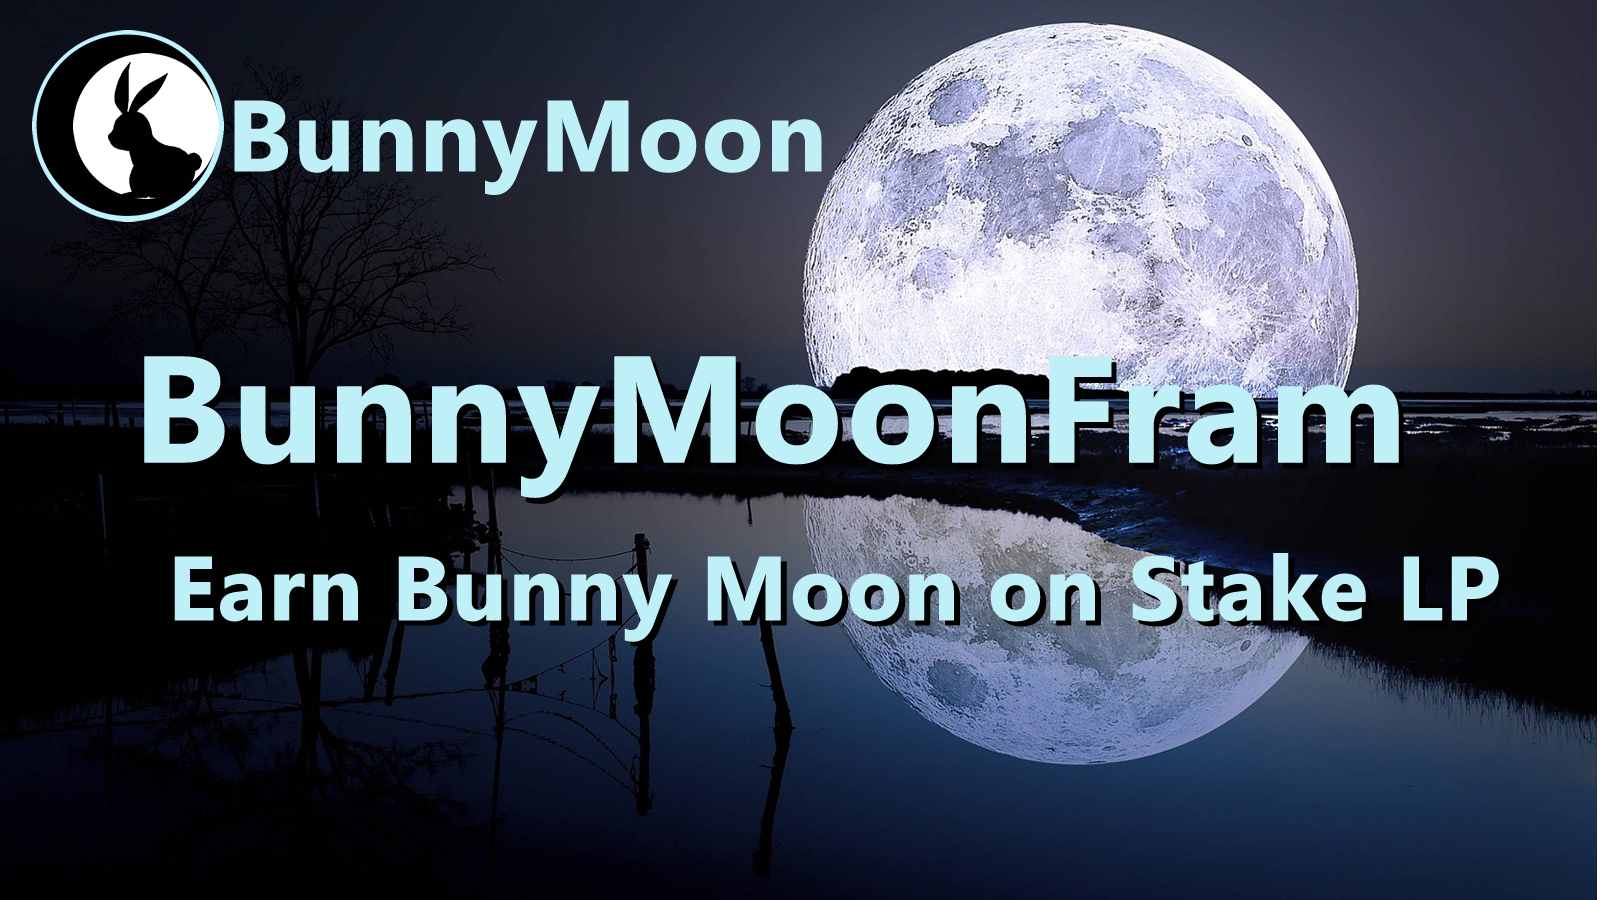
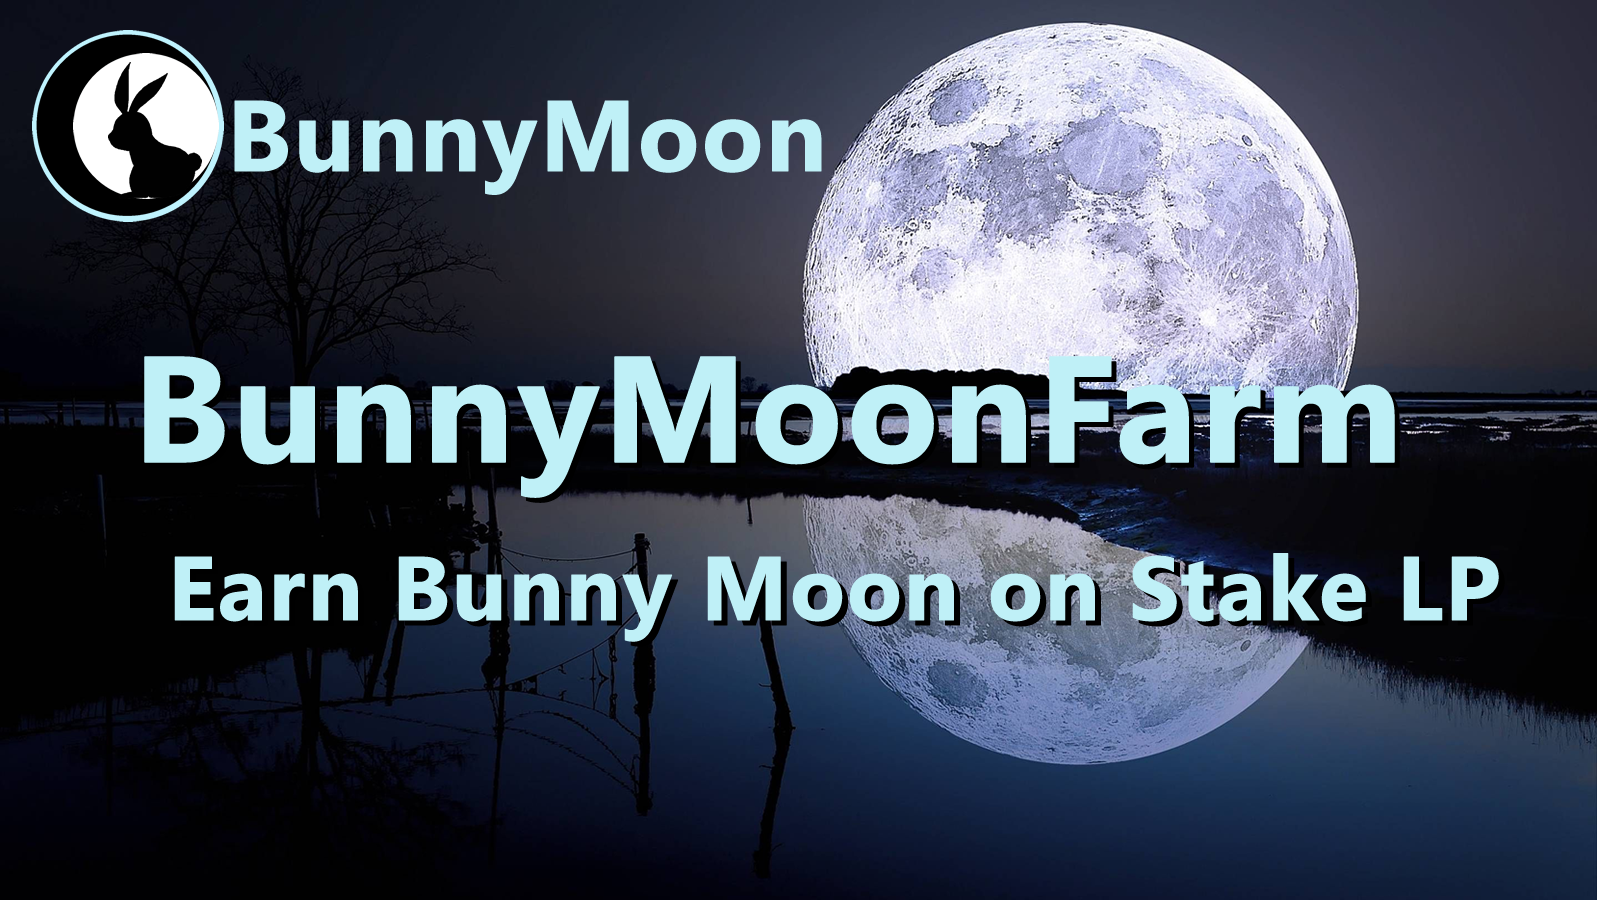
typo

Changed region(s): [[0.6875, 0.4356, 0.875, 0.5289]]

diff --git a/public/index.html b/public/index.html
@@ -15,14 +15,14 @@
     <title>BunnyMoonFarm</title>
     <meta
       name="description"
-      content="Cheaper and faster than Uniswap? Discover BunnyMoonFarm, the leading DEX on Binance Smart Chain (BSC) with the best farms in DeFi and a lottery for BUNNYMOON."
+      content="Discover BunnyMoonFarm, the leading DEX on Binance Smart Chain (BSC) with the best farms in DeFi and a lottery for BUNNYMOON."
     />
     <meta name="viewport" content="width=device-width, initial-scale=1, maximum-scale=5, minimum-scale=1" />
     <meta name="theme-color" content="#000000" />
     <meta name="twitter:image" content="https://bunnymoonfarm.web.app/images/hero.png" />
     <meta
       name="twitter:description"
-      content="The most popular AMM on BSC! Earn BUNNYMOON through yield farming or win it in the Lottery, then stake it in Pools to earn more tokens! Initial Farm Offerings (new token launch model pioneered by BunnyMoonFarm), NFTs, and more, on a platform you can trust."
+      content="Earn BUNNYMOON through yield farming or win it in the Lottery, then stake it in Pools to earn more tokens! Initial Farm Offerings (new token launch model pioneered by BunnyMoonFarm), NFTs, and more, on a platform you can trust."
     />
     <meta name="twitter:card" content="summary_large_image" />
     <meta name="twitter:title" content="BunnyMoonFarm - A next evolution DeFi exchange on Binance Smart Chain (BSC)" />
